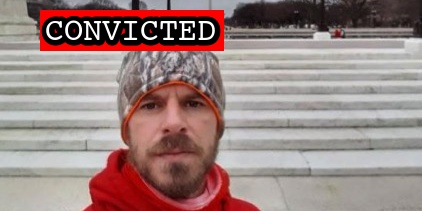
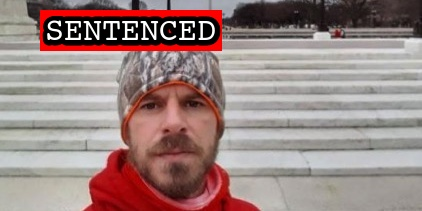
Latest

Changed region(s): [[0.2464, 0.0569, 0.4313, 0.2275], [0.0924, 0.0569, 0.2156, 0.2275], [0.5237, 0.0284, 0.5545, 0.2559]]

diff --git a/docs/_suspects/donald-hazard.md b/docs/_suspects/donald-hazard.md
@@ -4,13 +4,13 @@ lastName: Hazard
 hashtag: TacklingDummy
 aka:
 residence: Texas
-status: Convicted
+status: Sentenced
 date: 2021-12-07
 charged: 2021-12-07
 indicted: 2022-04-01
 convicted: 2023-02-16
 acquitted:
-sentenced:
+sentenced: 2023-05-19
 dismissed:
 deceased:
 plea_hearing: 2023-02-16
@@ -41,12 +41,17 @@ caseName: USA v. HAZARD
 judge: Randolph D. Moss
 videos:
 charges:
-- code: 18 USC § 111(a)(1) and (b)
-  title: Assaulting, resisting, or impeding certain officers or employees (using a deadly or dangerous weapon)
-  url: https://www.law.cornell.edu/uscode/text/18/111
-  felony: true
+  - code: 18 USC § 111(a)(1) and (b)
+    title: Assaulting, resisting, or impeding certain officers or employees (using a deadly or dangerous weapon)
+    url: https://www.law.cornell.edu/uscode/text/18/111
+    felony: true
 sentence:
+  - 57 months incarceration
+  - 3 years probation
+  - $2000 restitution
 ---
+
 - [News Report](https://www.dallasnews.com/news/crime/2021/12/14/tarrant-county-men-arrested-after-feds-say-they-fought-with-police-at-capitol-on-jan-6/)
 - [Statement of Facts](https://www.justice.gov/usao-dc/case-multi-defendant/file/1484536/download)
 - [Indictment](https://extremism.gwu.edu/sites/g/files/zaxdzs2191/f/Donald%20Hazard%20Indictment.pdf)
+- [DOJ Statement (Sentencing)](https://www.justice.gov/usao-dc/pr/texas-man-sentenced-felony-assault-law-enforcement-during-jan-6-capitol-breach)

diff --git a/docs/_suspects/vincent-ardolino.md b/docs/_suspects/vincent-ardolino.md
@@ -41,13 +41,12 @@ caseName: USA v. ARDOLINO
 judge: Reggie B. Walton
 videos:
 charges:
-  - code: 40 USC § 5104(e)(2)(G)
-    title: Parading, demonstrating or picketing in a Capitol building
-    url: https://www.law.cornell.edu/uscode/text/40/5104
-    felony: false
+- code: 40 USC § 5104(e)(2)(G)
+  title: Parading, demonstrating or picketing in a Capitol building
+  url: https://www.law.cornell.edu/uscode/text/40/5104
+  felony: false
 sentence:
 ---
-
 - [News Report](https://www.ocregister.com/2022/12/02/oc-man-charged-in-connection-with-jan-6-insurrection-after-facebook-post/)
 - [Complaint](https://www.justice.gov/usao-dc/case-multi-defendant/file/1555301/download)
 - [Statement of Facts](https://www.justice.gov/usao-dc/case-multi-defendant/file/1555306/download)

diff --git a/docs/_suspects/riley-kasper.md b/docs/_suspects/riley-kasper.md
@@ -14,11 +14,11 @@ sentenced:
 dismissed:
 deceased:
 plea_hearing:
-trial_date:
-trial_type:
-jury_selection:
+trial_date: 2023-11-01
+trial_type: Jury Trial
+jury_selection: 2023-11-01
 sentencing:
-status_conference: 2023-05-19
+status_conference: 2023-07-13
 age:
 occupation:
 affiliations:

diff --git a/docs/_suspects/vitali-gossjankowski.md b/docs/_suspects/vitali-gossjankowski.md
@@ -18,7 +18,7 @@ trial_date: 2023-02-27
 trial_type: Jury Trial
 jury_selection: 2023-02-27
 sentencing:
-status_conference: 2023-05-19
+status_conference: 2023-06-07
 age:
 occupation: Student
 affiliations: Gallaudet University

diff --git a/docs/_suspects/joseph-hutchinson.md b/docs/_suspects/joseph-hutchinson.md
@@ -18,7 +18,7 @@ trial_date: 2023-08-07
 trial_type: Jury Trial
 jury_selection: 2023-08-07
 sentencing:
-status_conference: 2023-05-19
+status_conference:
 age:
 occupation:
 affiliations:

diff --git a/docs/_suspects/olivia-pollock.md b/docs/_suspects/olivia-pollock.md
@@ -18,7 +18,7 @@ trial_date: 2023-03-06
 trial_type: Bench Trial
 jury_selection:
 sentencing:
-status_conference: 2023-05-19
+status_conference:
 age: 30
 occupation:
 affiliations:

diff --git a/docs/_suspects/steve-maldonado.md b/docs/_suspects/steve-maldonado.md
@@ -18,7 +18,7 @@ trial_date: 2023-07-10
 trial_type: Bench Trial
 jury_selection:
 sentencing:
-status_conference:
+status_conference: 2023-05-30
 age: 40
 occupation:
 affiliations:

diff --git a/docs/_suspects/nancy-barron.md b/docs/_suspects/nancy-barron.md
@@ -18,7 +18,7 @@ trial_date: 2023-06-05
 trial_type: Jury Trial
 jury_selection:
 sentencing:
-status_conference:
+status_conference: 2023-05-26
 age: 46
 occupation:
 affiliations:

diff --git a/docs/_suspects/jonathan-pollock.md b/docs/_suspects/jonathan-pollock.md
@@ -18,7 +18,7 @@ trial_date: 2023-03-06
 trial_type: Bench Trial
 jury_selection:
 sentencing:
-status_conference: 2023-05-19
+status_conference:
 age:
 occupation:
 affiliations:

diff --git a/docs/_suspects/jason-farris.md b/docs/_suspects/jason-farris.md
@@ -18,7 +18,7 @@ trial_date:
 trial_type:
 jury_selection:
 sentencing:
-status_conference: 2023-05-19
+status_conference: 2023-07-21
 age: 44
 occupation:
 affiliations:

diff --git a/docs/_suspects/roy-franklin.md b/docs/_suspects/roy-franklin.md
@@ -18,7 +18,7 @@ trial_date:
 trial_type:
 jury_selection:
 sentencing:
-status_conference: 2023-05-19
+status_conference: 2023-07-14
 age: 66
 occupation:
 affiliations:

diff --git a/docs/_suspects/timothy-desjardins.md b/docs/_suspects/timothy-desjardins.md
@@ -18,7 +18,7 @@ trial_date:
 trial_type:
 jury_selection:
 sentencing:
-status_conference:
+status_conference: 2023-08-10
 age: 35
 occupation:
 affiliations:
